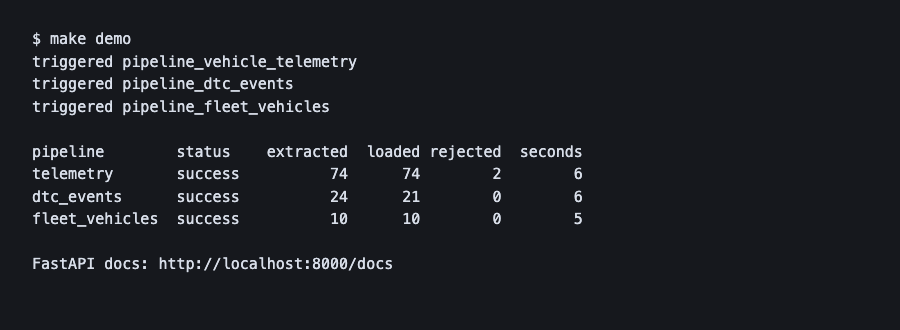
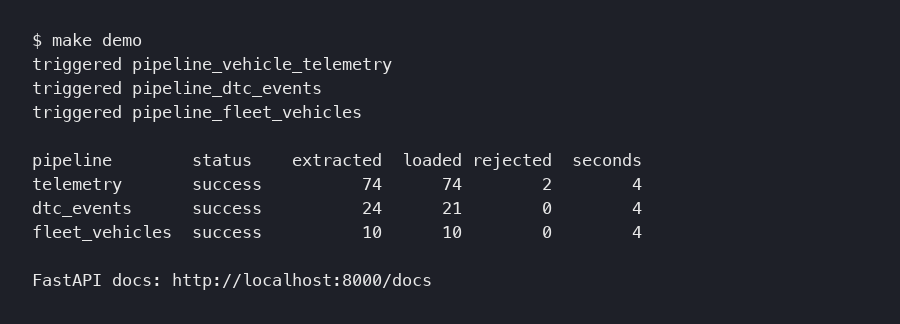
Refresh README numbers and screenshot, rename landing bucket

diff --git a/etl/monitoring/alerts.py b/etl/monitoring/alerts.py
@@ -71,7 +71,7 @@ def log_data_quality_alert(pipeline_name: str, check_name: str, details: str,
     )
 
 
-# ── Private helpers (commented out until production credentials are available) ─
+# ── Private helpers (commented out until a Slack webhook and SMTP server are set up) ─
 
 # def _send_slack_alert(dag_id, task_id, execution_date, error_msg):
 #     import urllib.request, json

diff --git a/README.md b/README.md
@@ -12,16 +12,16 @@ All data is small and generated for this repo. Nothing here ran against real fle
 
 | What | Result | Command |
 |---|---|---|
-| Telemetry pipeline, 74 sample rows | 74 loaded, 1 row flagged as outlier, 5 s | `make demo` |
-| DTC events pipeline, 24 sample rows | 21 loaded (3 duplicate deliveries dropped), 4 s | `make demo` |
-| Fleet vehicles pipeline, 10 sample rows | 10 loaded, 4 s | `make demo` |
-| Validate 100,000 generated telemetry rows | 0.20 s (about 490,000 rows/s) | `make eval` |
-| Transform 100,000 rows | 0.24 s (about 420,000 rows/s) | `make eval` |
-| Upsert 100,000 rows into PostgreSQL | 6.6 s (about 15,000 rows/s) | `make bench-load` |
-| Peak memory of the benchmark process | 275 MB | `make bench-load` |
+| Telemetry pipeline, 74 sample rows | 74 loaded, 1 row flagged as outlier, 4 to 6 s | `make demo` |
+| DTC events pipeline, 24 sample rows | 21 loaded (3 duplicate deliveries dropped), 4 to 6 s | `make demo` |
+| Fleet vehicles pipeline, 10 sample rows | 10 loaded, 4 to 6 s | `make demo` |
+| Validate 100,000 generated telemetry rows | 0.27 s (about 370,000 rows/s) | `make eval` |
+| Transform 100,000 rows | 0.31 s (about 330,000 rows/s) | `make eval` |
+| Upsert 100,000 rows into PostgreSQL | 7.1 s (about 14,000 rows/s) | `make bench-load` |
+| Peak memory of the benchmark process | 310 MB | `make bench-load` |
 | Unit and API tests | 52 pass | `make test` |
 
-The benchmark numbers come from one run on a 16 GB Apple silicon laptop with other containers running, so they move by about 2x between runs. The latest run is saved in `results/benchmark.json`. The Airflow run times in the first three rows include task scheduling overhead, not just the work.
+The benchmark numbers come from one run on a 16 GB Apple silicon laptop with other containers running, so they move by about 2x between runs. The latest run is saved in `results/benchmark.json`. The Airflow run times in the first three rows moved between 4 and 6 s across runs and include task scheduling overhead, not just the work.
 
 In `pipeline_runs`, `records_rejected` counts rows that failed a quality check, summed over checks. Those rows are still loaded, flagged with `is_outlier`, so a single bad row can count twice (the telemetry sample shows 2 for 1 flagged row).
 
@@ -93,7 +93,3 @@ Use Python 3.12 or 3.13 for the tests and install: Python 3.14 fails on the psyc
 - Count distinct rejected rows instead of summing failures per check.
 - Wire the Slack and email alert helpers, which are commented out in `etl/monitoring/alerts.py`.
 - Add an integration test that runs a DAG against real PostgreSQL and MinIO in CI.
-
-## More
-
-Repo description: Airflow, MinIO, PostgreSQL and FastAPI ETL for vehicle telematics sample data, run locally with Docker Compose.
